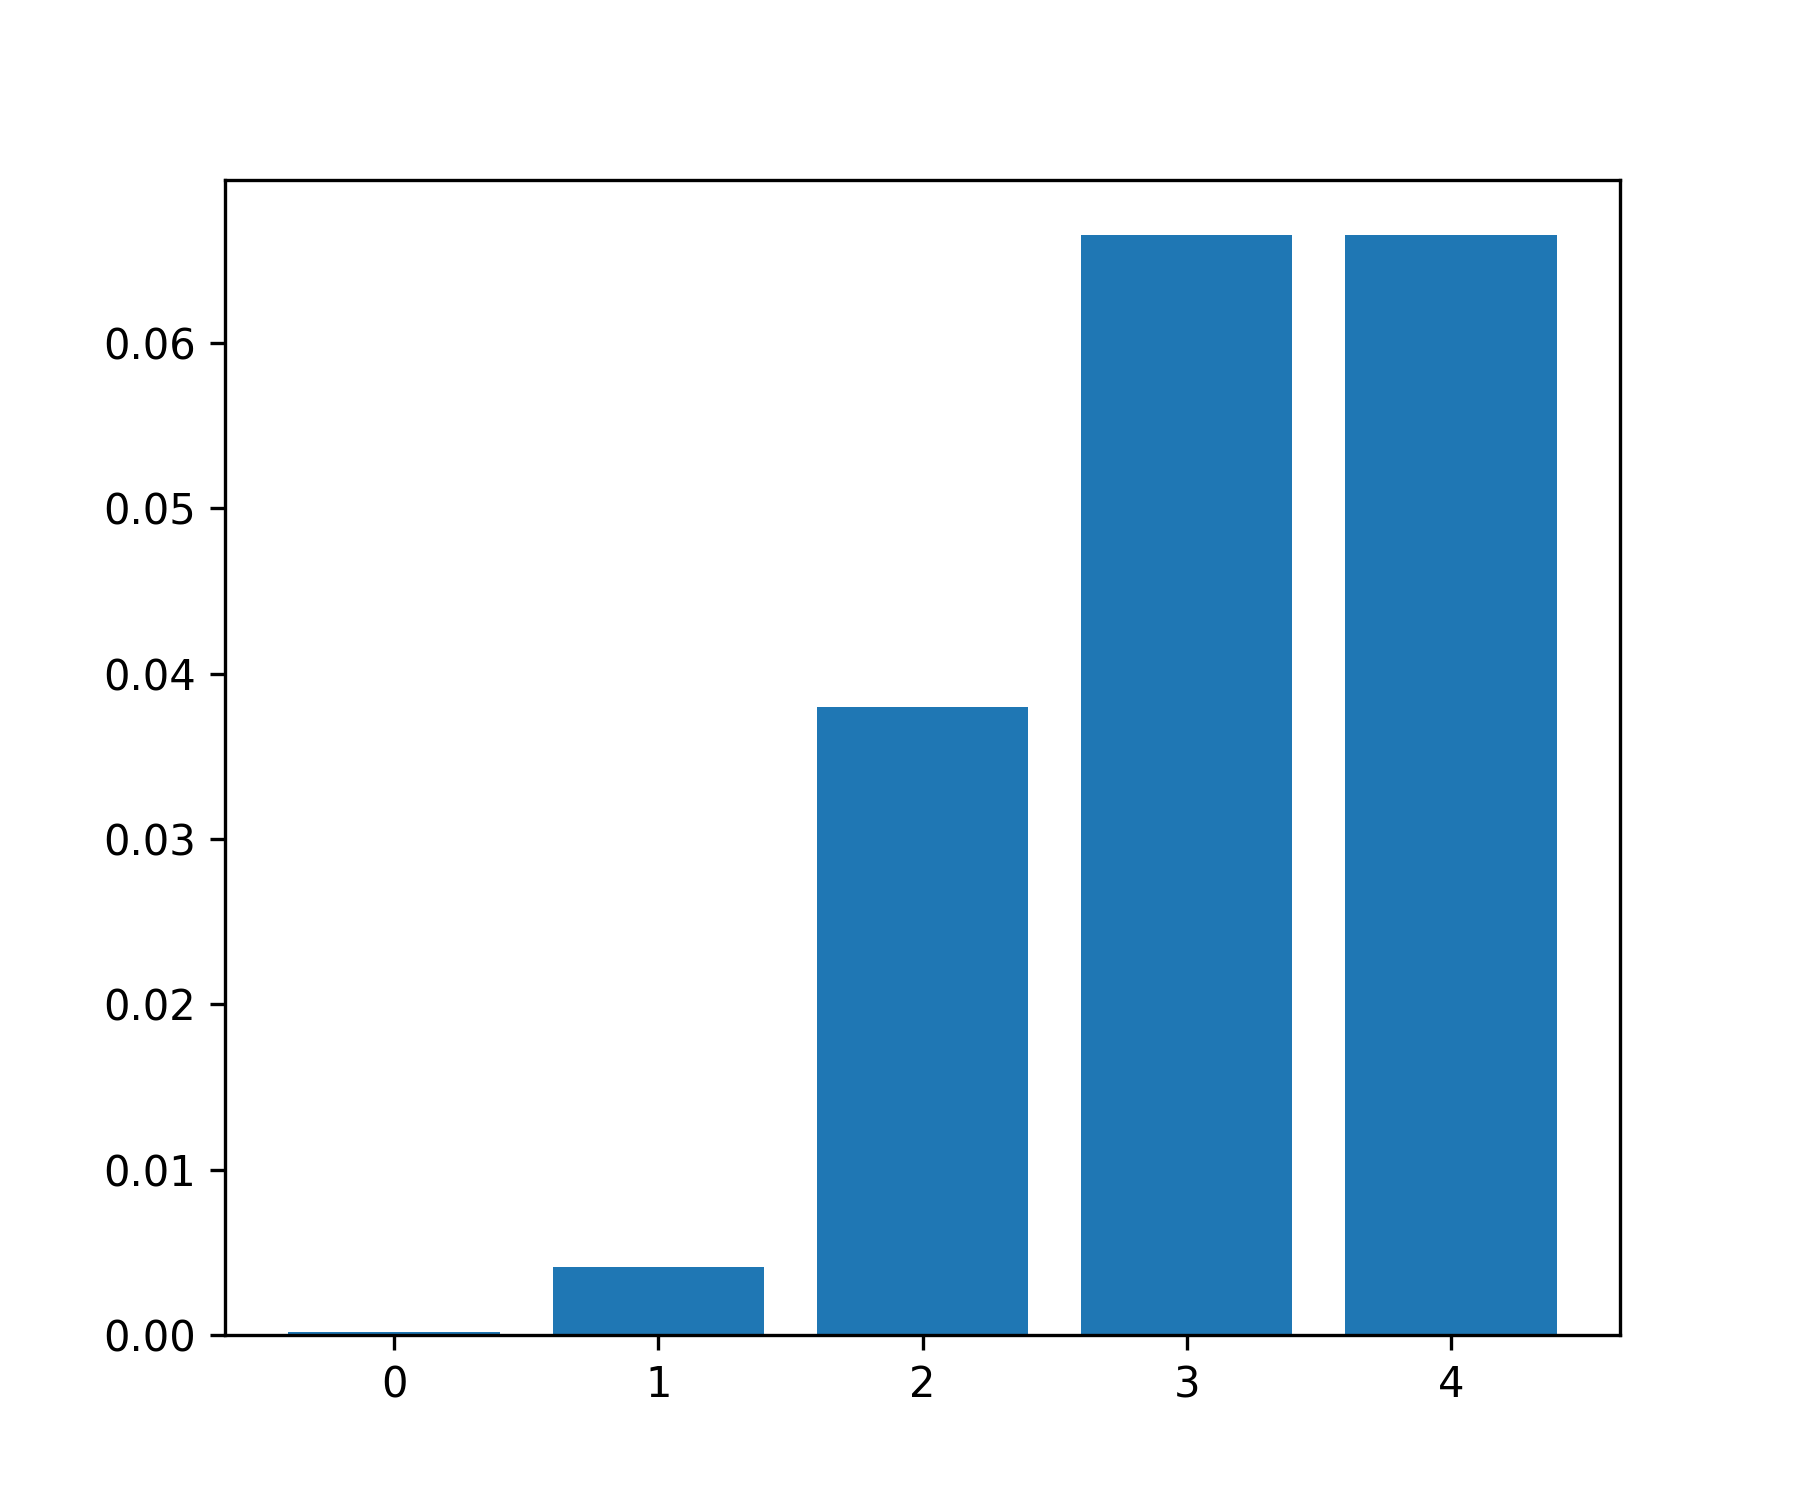
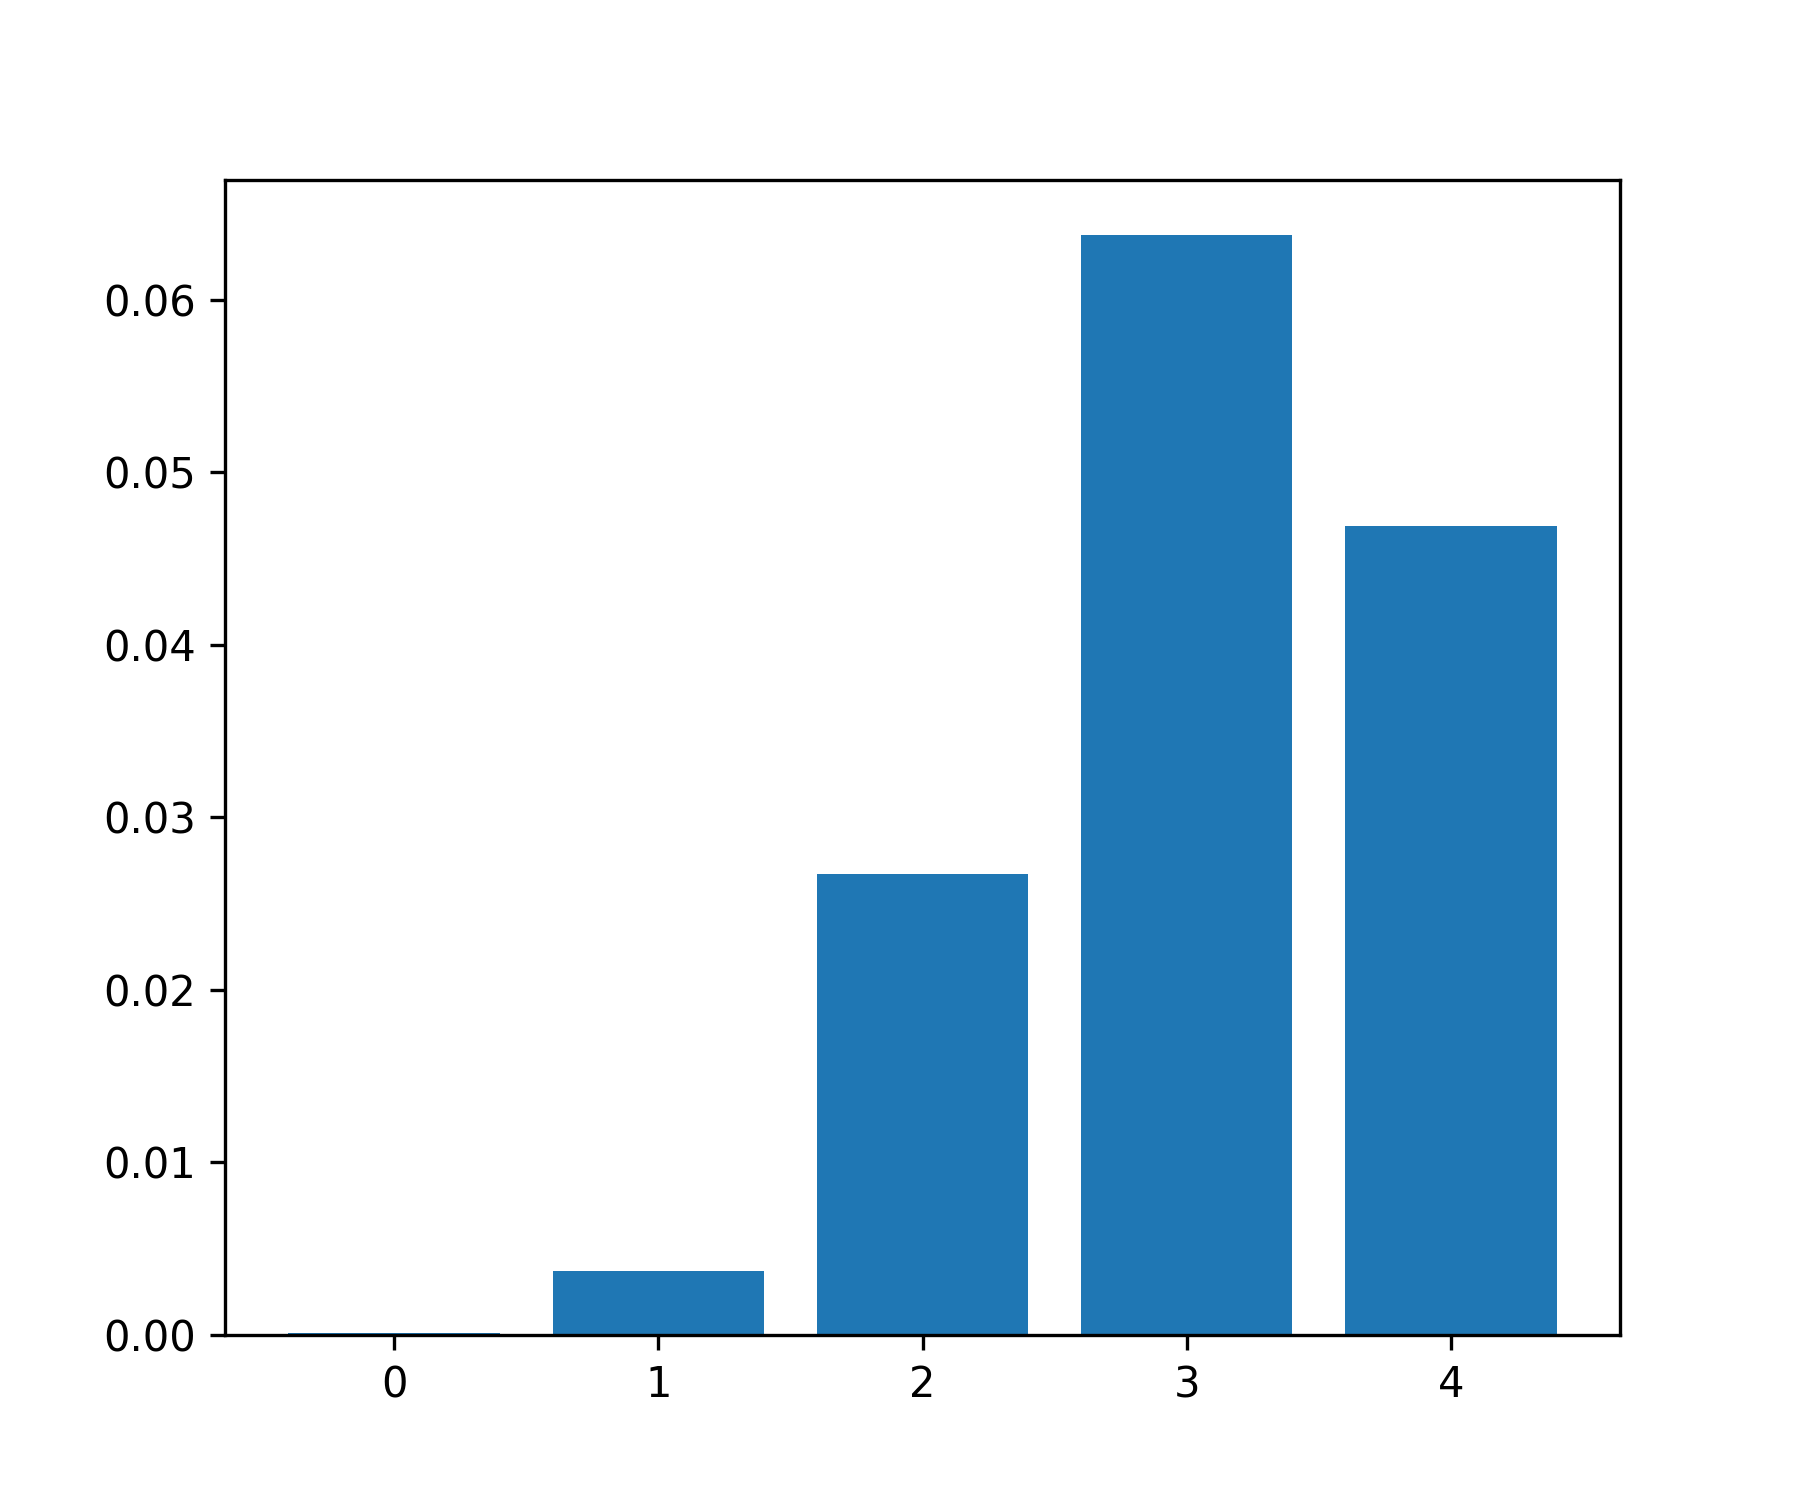
fixed matrix norms to coordinated orders between matrix and vectors

diff --git a/lab03/src/matrix_precision.py b/lab03/src/matrix_precision.py
@@ -11,7 +11,7 @@ for i in range(n):
         
 A = 100 / (3 + 0.3 * C) ** 5
 x = np.linalg.solve(A, b)
-cond_value = np.max(A)
+cond_value = np.linalg.cond(A, p=np.inf)
 
 delta = 0.1
 x_modified = {}
@@ -20,7 +20,8 @@ for i in range(n):
         A_modified = A.copy()
         A_modified[i, j] += delta
         x_modified[(i, j)] = np.linalg.solve(A_modified, b)
-d = {key: np.max(x - x_i) / np.max(x) for key, x_i in x_modified.items()}
+d = {key: np.linalg.norm(x - x_i, ord=np.inf) / np.linalg.norm(x, ord=np.inf)
+     for key, x_i in x_modified.items()}
 
 plt.figure(figsize=(10, 5))
 plt.bar([str(el) for el in d.keys()], d.values())
@@ -31,7 +32,7 @@ plt.savefig('plots/matrix_precision.png', dpi=300)
 d_i, d_j = max(d, key=d.get)  # type: ignore
 A_modified = A.copy()
 A_modified[d_i, d_j] += delta
-rel_delta = np.max(A_modified - A) / np.max(A)
+rel_delta = np.linalg.norm(A_modified - A, ord=np.inf) / np.linalg.norm(A, ord=np.inf)
 cmp_sign = '<=' if d[(d_i, d_j)] <= rel_delta * cond_value else '>'
 
 print(f'i, j = {d_i, d_j}')

diff --git a/lab03/src/cond_precision.py b/lab03/src/cond_precision.py
@@ -13,7 +13,7 @@ A = 100 / (3 + 0.3 * C) ** 5
 
 x = np.linalg.solve(A, b)
 
-cond_value = np.max(np.abs(A))
+cond_value = np.linalg.cond(np.abs(A), p=np.inf)
 delta = 0.1
 
 x_modified = np.empty((n, n))
@@ -21,7 +21,8 @@ for i in range(n):
     b_modified = b.copy()
     b_modified[i] += delta
     x_modified[i] = np.linalg.solve(A, b_modified)
-d = np.array([np.max(x - x_i) / np.max(x) for x_i in x_modified])
+d = np.array([np.linalg.norm(x - x_i, ord=np.inf) / np.linalg.norm(x, ord=np.inf)
+              for x_i in x_modified])
 
 plt.figure(figsize=(6, 5))
 plt.bar(range(n), d)
@@ -34,7 +35,7 @@ b_modified[d_argmax] += delta
 
 
 with np.printoptions(precision=5):
-    rel_delta = np.max(b_modified - b) / np.max(b)
+    rel_delta = np.linalg.norm(b_modified - b, ord=np.inf) / np.linalg.norm(b, ord=np.inf)
     print(f'm = {d_argmax + 1}')
     print(f'd = {d}')
     print(f'delta(x^m) = {d[d_argmax]}')
